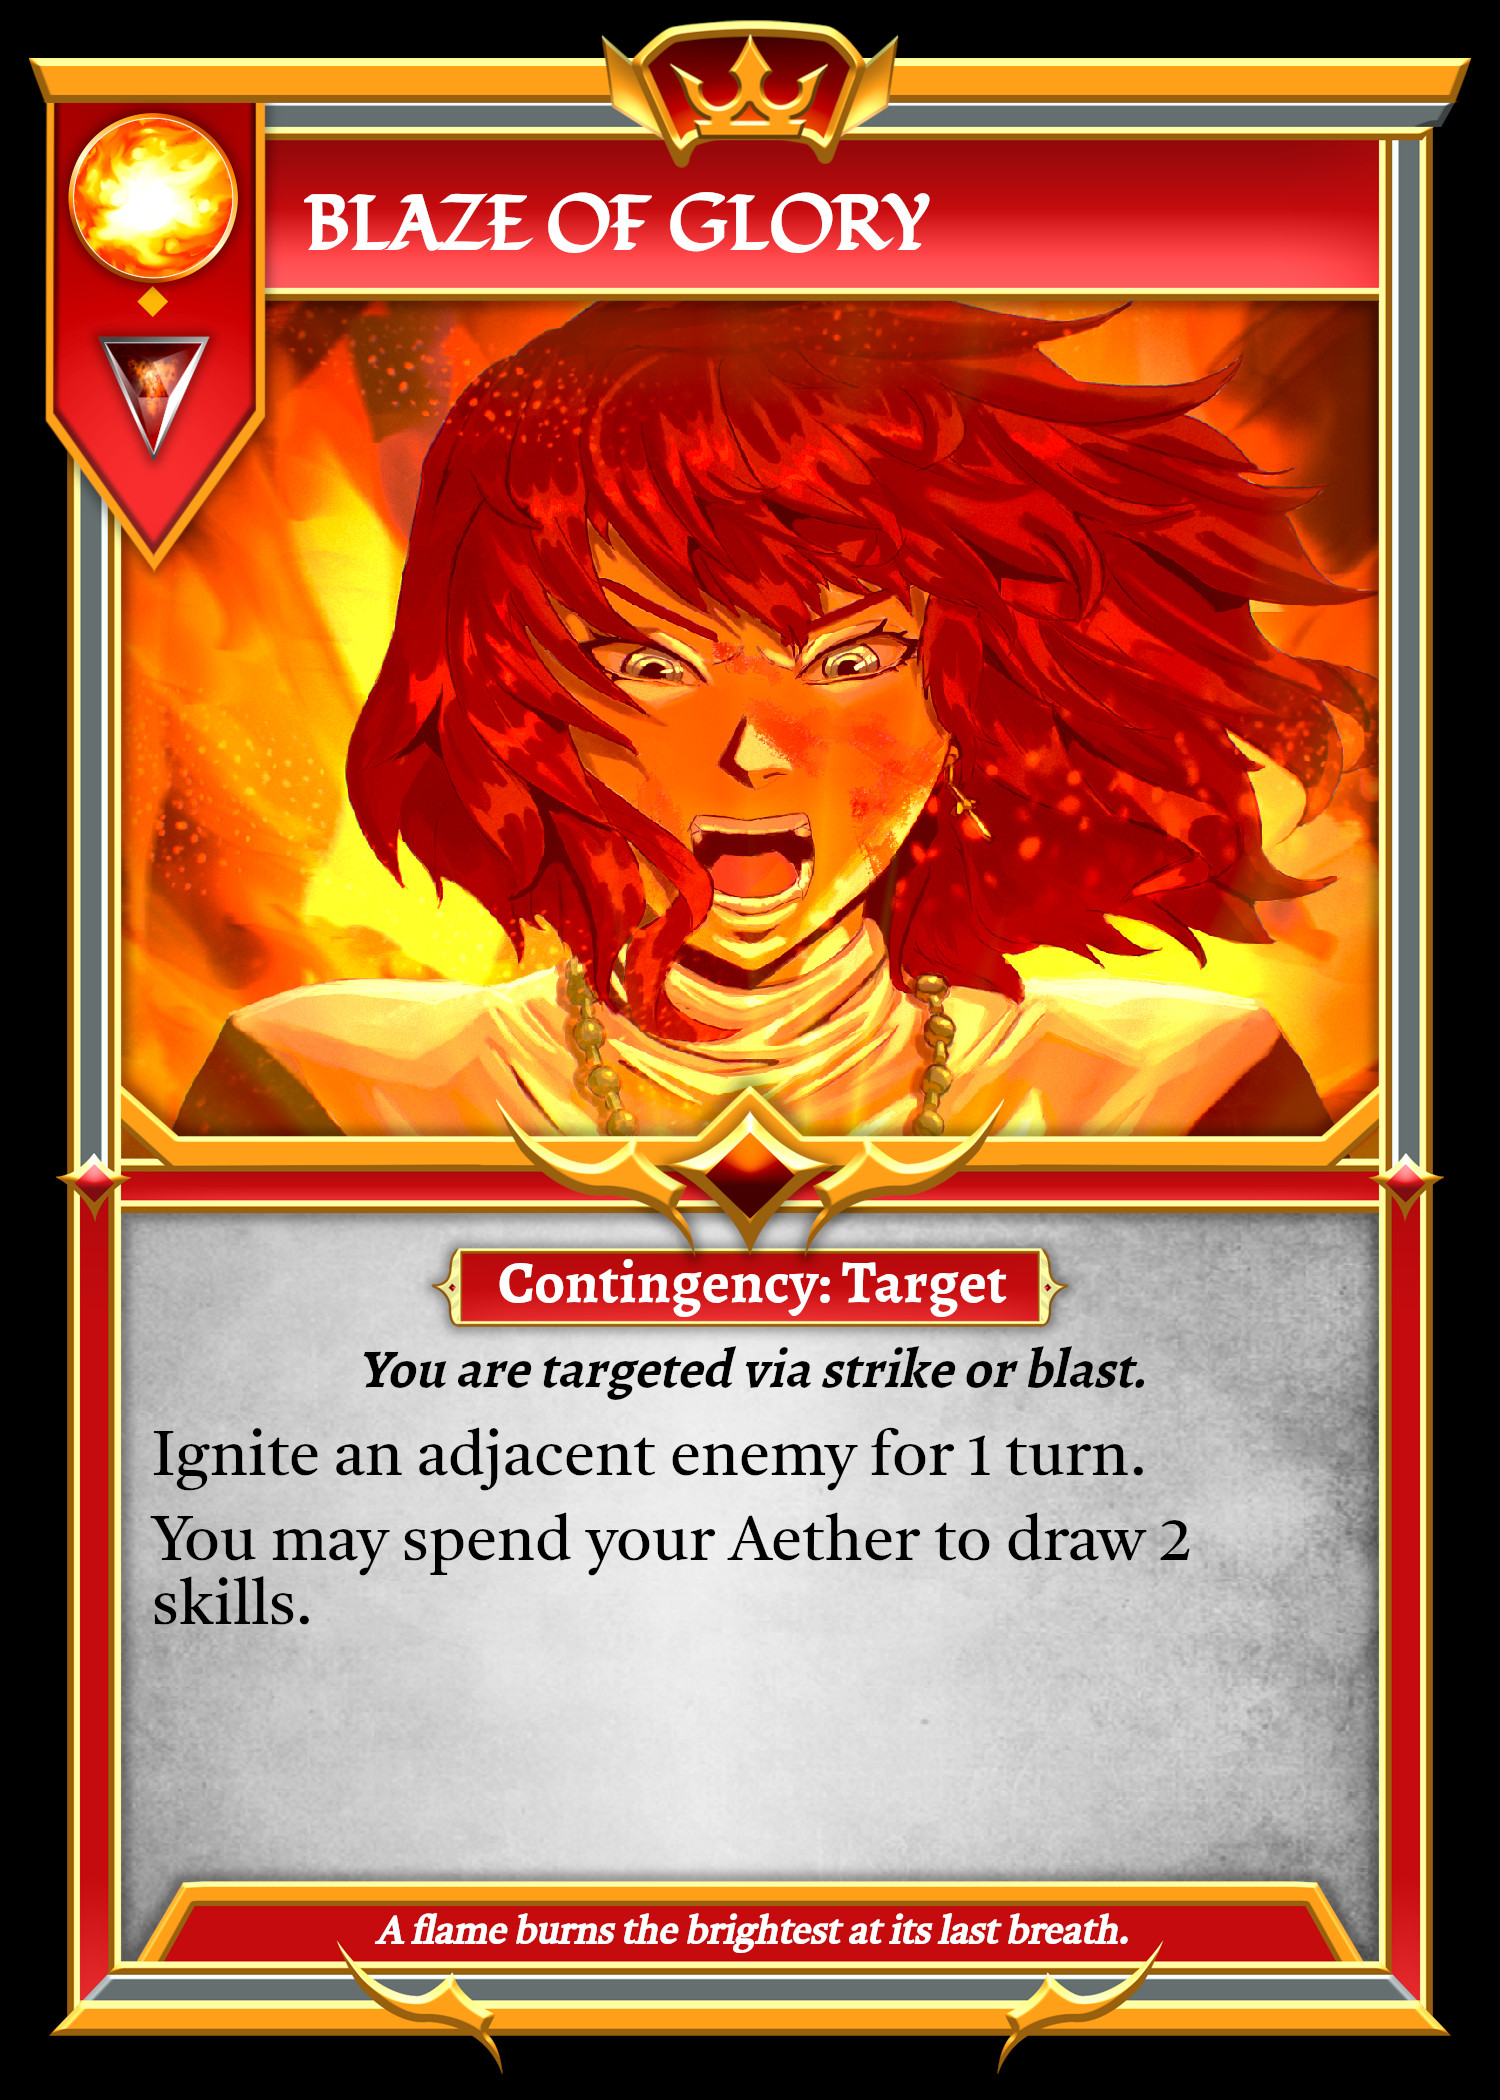
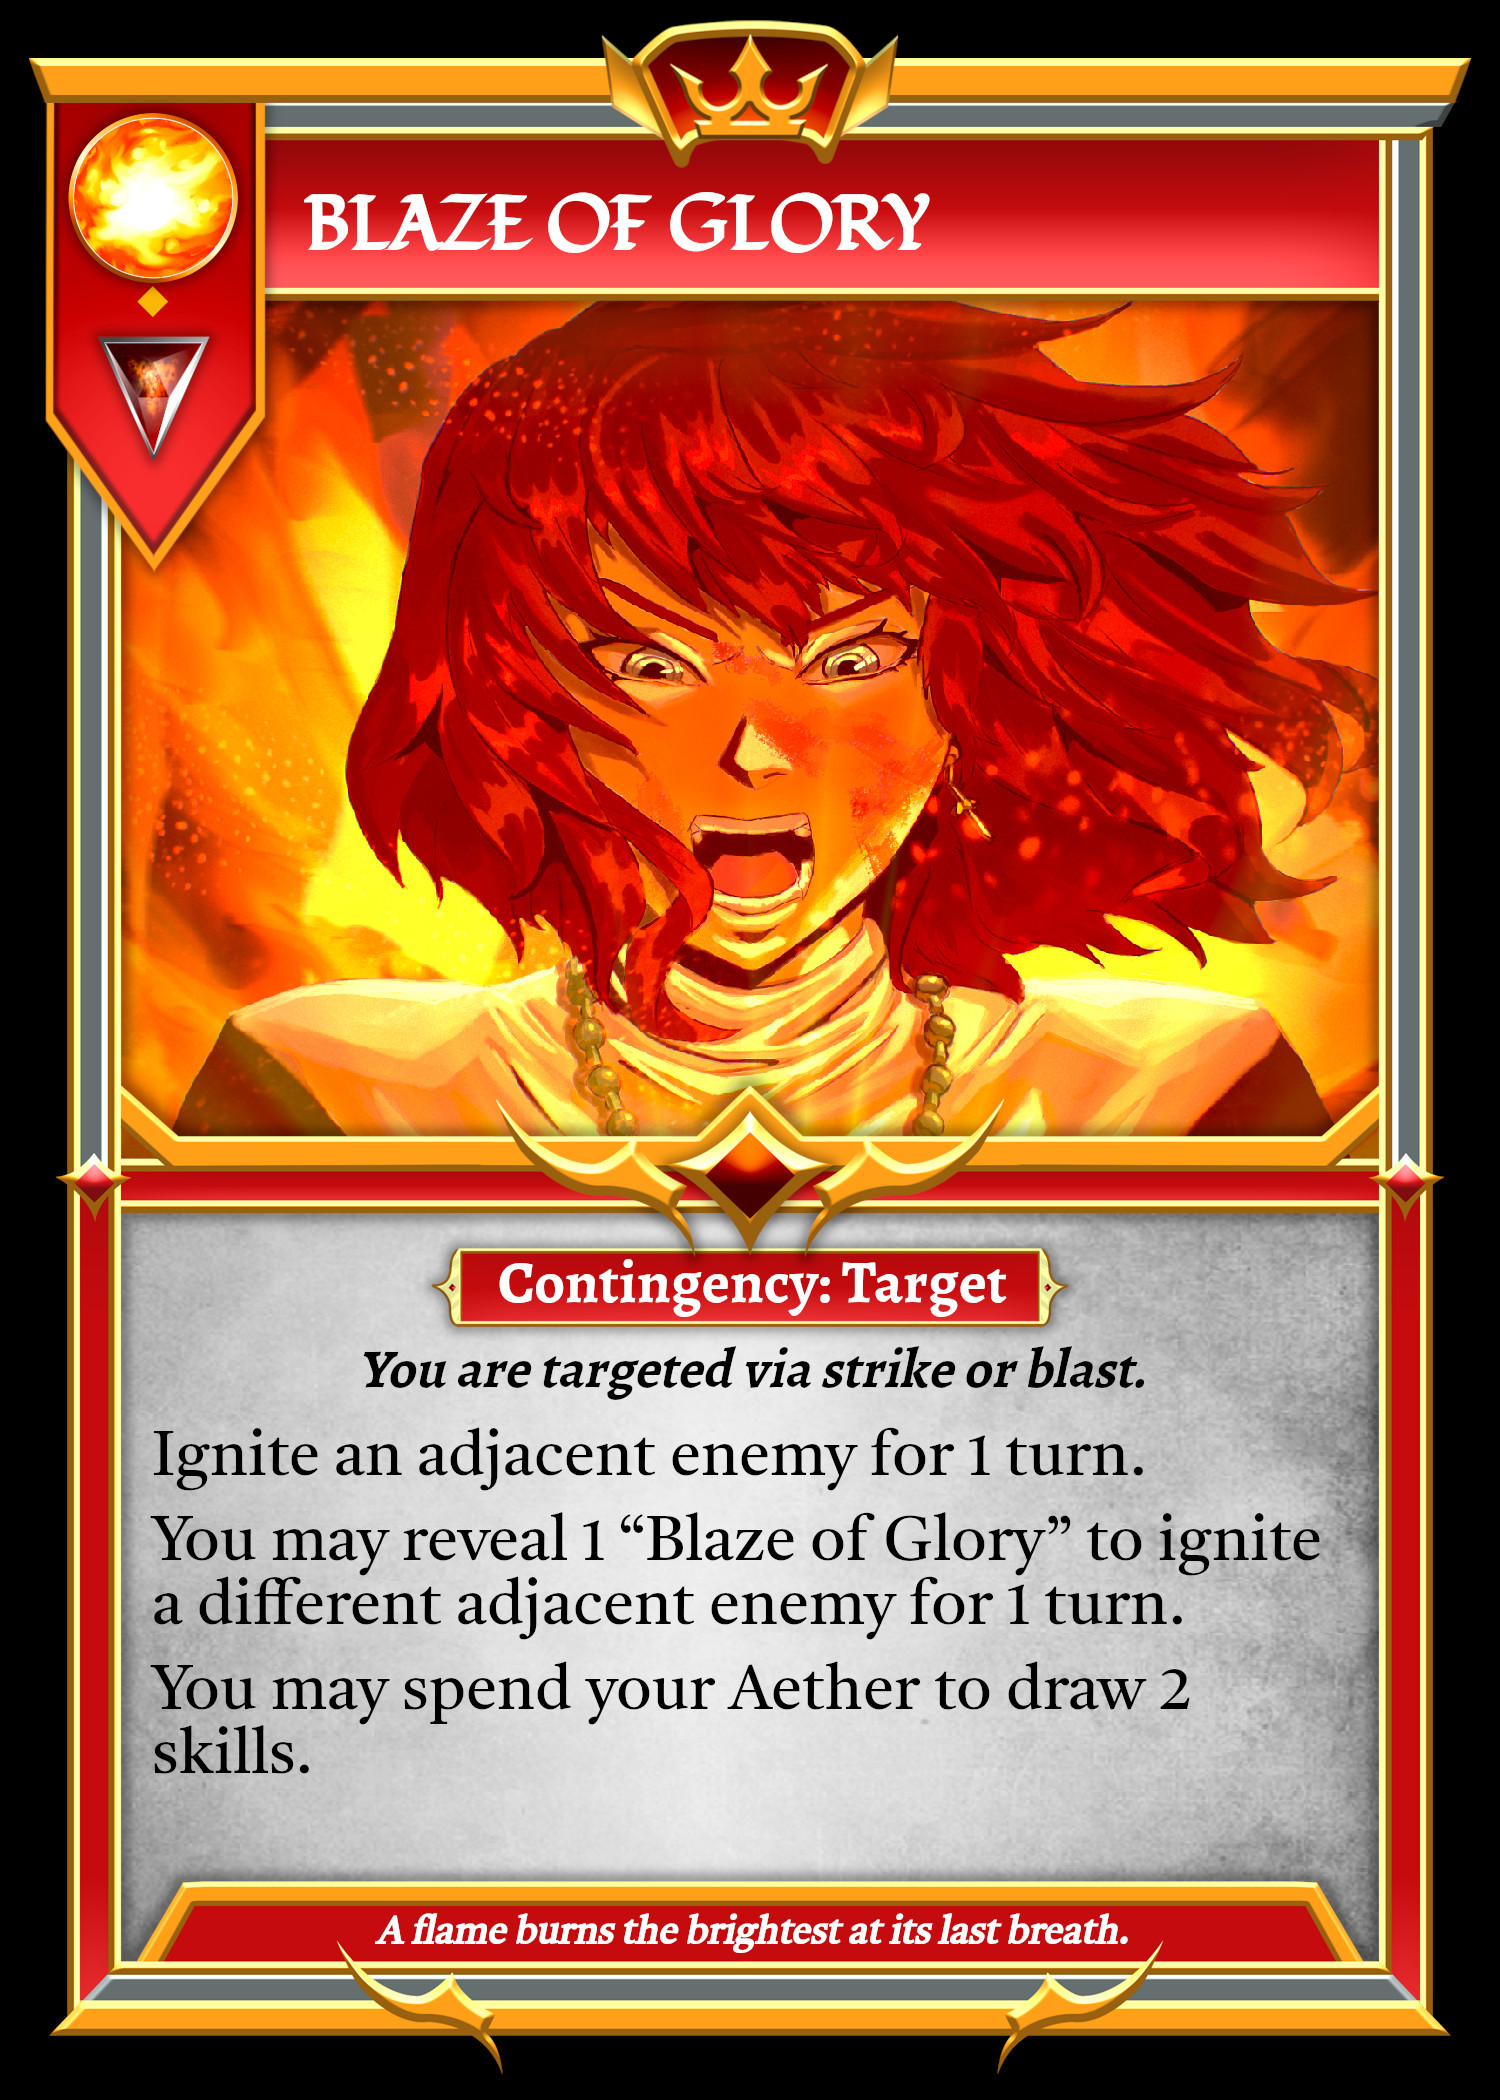
buffed Blaze of Glory. Fixed deploy pawn bug

Changed region(s): [[0.092, 0.7119, 0.8893, 0.8667], [0.3987, 0.8048, 0.46, 0.8357]]

diff --git a/src/components/BoardArea.jsx b/src/components/BoardArea.jsx
@@ -144,6 +144,7 @@ const BoardArea = (props) => {
     endDefiancePhase2,
     endExecutionPhase,
     enterMoveMode,
+    enterSelectUnitMode,
     getVacant2SpaceZones,
     getVacantAdjacentZones,
     grantRavager,
@@ -636,7 +637,7 @@ const BoardArea = (props) => {
 
       case "Apply Burn":
         if (self === lastRes.attacker.player) {
-          resolveApplyBurn(lastRes.attacker, lastRes.victim);
+          resolveApplyBurn(lastRes.attacker, lastRes.victim, lastRes.special);
         }
         break;
 
@@ -1588,7 +1589,7 @@ const BoardArea = (props) => {
 
           case "Blaze of Glory1":
             if (self === lastRes.unit.player) {
-              selectEnemies(lastRes.unit, 1, null, "ignite", null);
+              selectEnemies(lastRes.unit, 1, null, "ignite", "Blaze of Glory");
             }
             break;
 
@@ -1598,7 +1599,39 @@ const BoardArea = (props) => {
             }
             break;
 
+          case "Blaze of Glory2.5":
+            return (
+              <>
+                {self === lastRes.unit.player && !hideModal && (
+                  <SelectSkillReveal
+                    unit={lastRes.unit}
+                    details={lastRes.details}
+                    updateFirebase={updateFirebase}
+                    hideOrRevealModale={hideOrRevealModale}
+                  />
+                )}
+              </>
+            );
+
           case "Blaze of Glory3":
+            if (self === lastRes.unit.player) {
+              resolutionUpdate(
+                applySkill(
+                  "blazeOfGlory3",
+                  lastRes.unit,
+                  lastRes.adjacentEnemies
+                )
+              );
+            }
+            break;
+
+          case "Blaze of Glory4":
+            if (self === lastRes.unit.player) {
+              updateLocalState(applySkill("blazeOfGlory4", lastRes.unit));
+            }
+            break;
+
+          case "Blaze of Glory5":
             return (
               <>
                 {self === lastRes.unit.player && !hideModal && (
@@ -3762,6 +3795,10 @@ const BoardArea = (props) => {
     newZoneInfo[r][c].unitIndex = newIndex;
     newGameState.zones = JSON.stringify(newZoneInfo);
 
+    if (deployingPawn) {
+      newGameState.currentResolution.pop();
+    }
+
     if (localGameState.turnPhase === "Acquisition") {
       newGameState.turnPhase = "Bounty";
       // newGameState.currentResolution.pop();
@@ -3876,7 +3913,7 @@ const BoardArea = (props) => {
     dispatch(updateState(gameState));
   };
 
-  const resolveApplyBurn = (attackerInfo, victimInfo) => {
+  const resolveApplyBurn = (attackerInfo, victimInfo, special) => {
     let newGameState = JSON.parse(JSON.stringify(localGameState));
 
     const attacker =
@@ -3885,7 +3922,7 @@ const BoardArea = (props) => {
     newGameState.currentResolution.pop();
 
     if (attacker !== null && !isMuted(attacker)) {
-      newGameState = applyBurn(newGameState, victimInfo, attackerInfo);
+      newGameState = applyBurn(newGameState, victimInfo, attackerInfo, special);
     }
 
     dispatch(updateState(newGameState));

diff --git a/src/hooks/useSkillEffects.jsx b/src/hooks/useSkillEffects.jsx
@@ -161,6 +161,14 @@ export const useSkillEffects = () => {
       ? (unit.temporary.activation += 1)
       : (unit.temporary.activation = 1);
 
+    delete unit.temporary.previousTarget;
+
+    newGameState.currentResolution.push({
+      resolution: "Fire Skill",
+      resolution2: "Blaze of Glory4",
+      unit: unit,
+    });
+
     newGameState.currentResolution.push({
       resolution: "Fire Skill",
       resolution2: "Blaze of Glory2",
@@ -178,15 +186,71 @@ export const useSkillEffects = () => {
 
   const blazeOfGlory2 = (unitInfo) => {
     let newGameState = JSON.parse(JSON.stringify(localGameState));
+    const zones = JSON.parse(newGameState.zones);
+    let unit = newGameState[unitInfo.player].units[unitInfo.unitIndex];
+
+    //end "Blaze of Glory2" resolution
+    newGameState.currentResolution.pop();
+
+    let adjacentEnemies = getZonesWithEnemies(unit, 1);
+    adjacentEnemies = adjacentEnemies.filter(
+      (z) =>
+        zones[Math.floor(z / 5)][z % 5].unitIndex !==
+        unit.temporary.previousTarget
+    );
+
+    if (unit !== null && !isMuted(unit)) {
+      if (adjacentEnemies.length > 0) {
+        //Ignite 2nd enemy
+        newGameState.currentResolution.push({
+          resolution: "Fire Skill",
+          resolution2: "Blaze of Glory2.5",
+          unit,
+          details: {
+            title: "Blaze of Glory",
+            message:
+              "You may reveal 1 “Blaze of Glory” to ignite a different adjacent enemy for 1 turn.",
+            restriction: ["01-03"],
+            reason: "Blaze of Glory",
+            adjacentEnemies,
+          },
+        });
+      }
+    }
+
+    return newGameState;
+  };
+
+  const blazeOfGlory3 = (unitInfo, adjacentEnemies) => {
+    let newGameState = JSON.parse(JSON.stringify(localGameState));
+    let unit = newGameState[unitInfo.player].units[unitInfo.unitIndex];
+
+    //end "Blaze of Glory 3" resolution
+    newGameState.currentResolution.pop();
+
+    enterSelectUnitMode(
+      adjacentEnemies,
+      unit,
+      newGameState,
+      null,
+      "ignite",
+      null
+    );
+
+    return newGameState;
+  };
+
+  const blazeOfGlory4 = (unitInfo) => {
+    let newGameState = JSON.parse(JSON.stringify(localGameState));
     const unit = newGameState[unitInfo.player].units[unitInfo.unitIndex];
 
-    //end "Blaze of Glory2"
+    //end "Blaze of Glory4"
     newGameState.currentResolution.pop();
 
     if (unit && !isMuted(unit) && unit.aether > 0) {
       newGameState.currentResolution.push({
         resolution: "Fire Skill",
-        resolution2: "Blaze of Glory3",
+        resolution2: "Blaze of Glory5",
         unit: unit,
         details: {
           reason: "Blaze of Glory Draw",
@@ -2371,6 +2435,10 @@ export const useSkillEffects = () => {
         return blazeOfGlory1(a);
       case "blazeOfGlory2":
         return blazeOfGlory2(a);
+      case "blazeOfGlory3":
+        return blazeOfGlory3(a, b);
+      case "blazeOfGlory4":
+        return blazeOfGlory4(a);
       case "resplendence1":
         return resplendence1(a);
       case "resplendence2":

diff --git a/src/hooks/useRecurringEffects.jsx b/src/hooks/useRecurringEffects.jsx
@@ -1612,8 +1612,10 @@ export const useRecurringEffects = () => {
     return unit;
   };
 
-  const applyBurn = (newGameState, victimInfo) => {
+  const applyBurn = (newGameState, victimInfo, attackerInfo, special) => {
     //Update info
+    let attacker =
+      newGameState[attackerInfo.player].units[attackerInfo.unitIndex];
     let victim = newGameState[victimInfo.player].units[victimInfo.unitIndex];
 
     if (victim.enhancements.ward) {
@@ -1633,6 +1635,10 @@ export const useRecurringEffects = () => {
         .frostbite;
       delete newGameState[victim.player].units[victim.unitIndex].enhancements
         .overgrowth;
+    }
+
+    if (["Blaze of Glory"].includes(special)) {
+      attacker.temporary.previousTarget = victim.unitIndex;
     }
 
     return newGameState;

diff --git a/src/components/modals/SelectSkillReveal.jsx b/src/components/modals/SelectSkillReveal.jsx
@@ -68,6 +68,18 @@ const SelectSkillReveal = (props) => {
     let revealMessage = "";
 
     switch (props.details.reason) {
+      case "Blaze of Glory":
+        newGameState.currentResolution.push({
+          resolution: "Fire Skill",
+          resolution2: "Blaze of Glory3",
+          unit: props.unit,
+          adjacentEnemies: props.details.adjacentEnemies,
+        });
+
+        revealTitle = "Blaze of Glory";
+        revealMessage = "Your opponent has revealed 1 “Blaze of Glory”";
+        break;
+
       case "Healing Rain":
         let healingRainUnit =
           newGameState[props.details.victim.player].units[

diff --git a/src/pages/LogIn.css b/src/pages/LogIn.css
@@ -20,6 +20,7 @@
 
     background-size: cover;
     background-position: center;
+    
  
 }
 
@@ -33,6 +34,7 @@
     overflow: hidden;
 
     margin: 10px;
+ 
 
     box-shadow: 4px 4px 8px 4px rgba(0, 0, 0, 0.5);
 
@@ -222,6 +224,7 @@
 
 @media screen and (max-width: 700px) {
     .login-box {
-        scale: .85;
+        scale: .75;
+        margin-top: 30px;
     }
 }

diff --git a/src/components/modals/YouMayNoYes.jsx b/src/components/modals/YouMayNoYes.jsx
@@ -123,7 +123,7 @@ const YouMayNoYes = (props) => {
         });
         break;
 
-      case "Blaze of Glory Draw": //"Blaze of Glory3"
+      case "Blaze of Glory Draw": //"Blaze of Glory5"
         unit.aether = 0;
         newGameState = drawSkill(newGameState);
         newGameState = drawSkill(newGameState);
